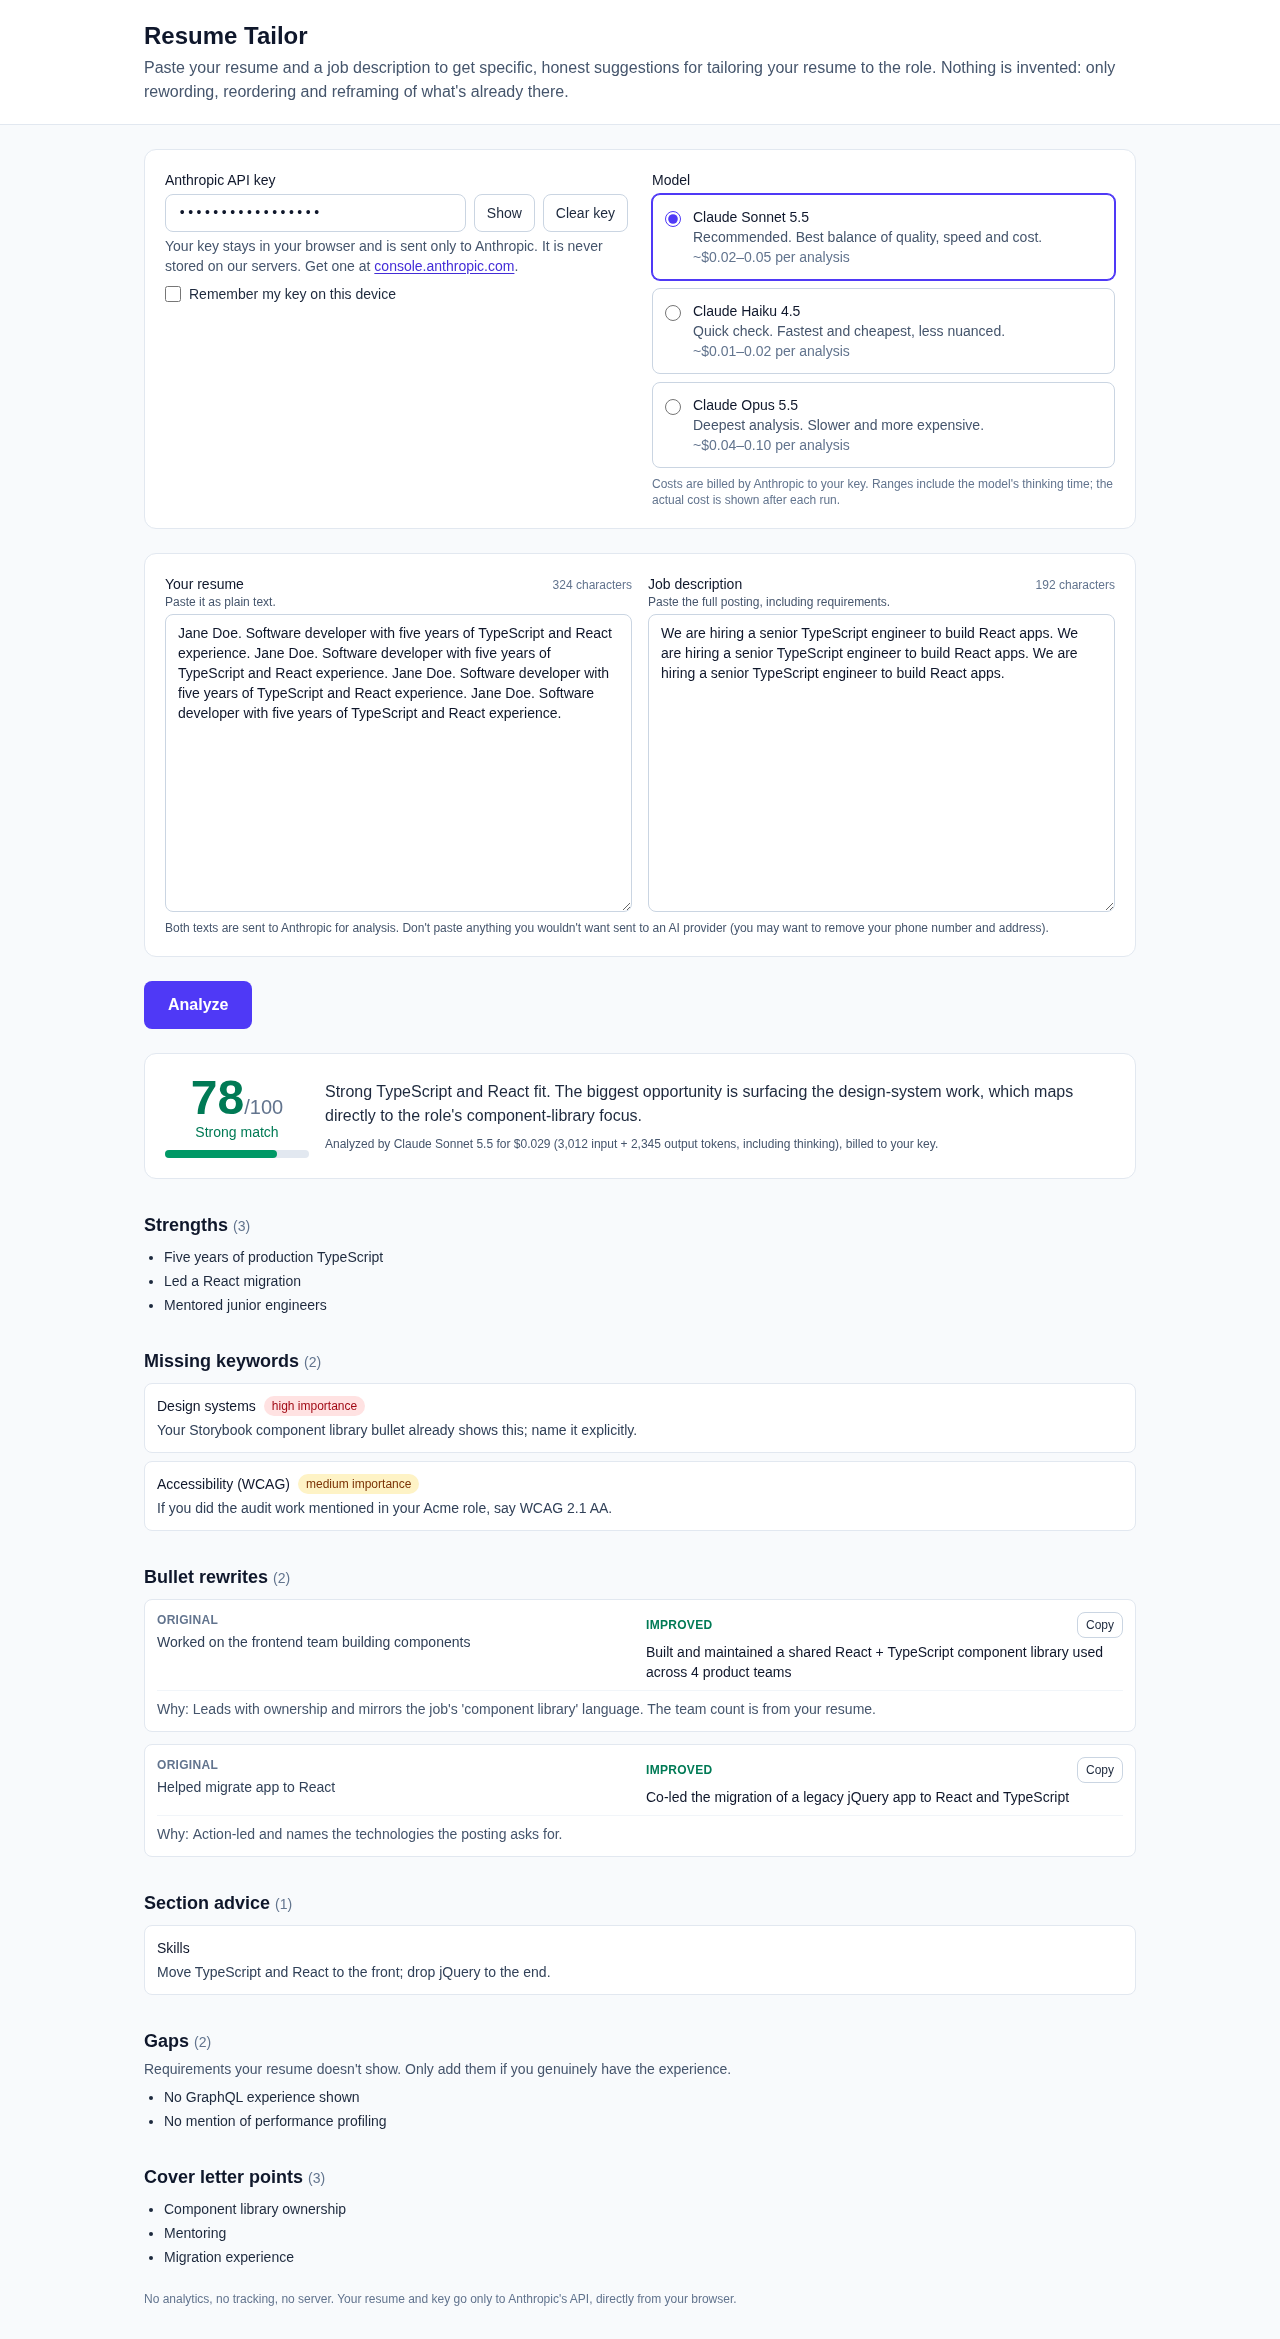
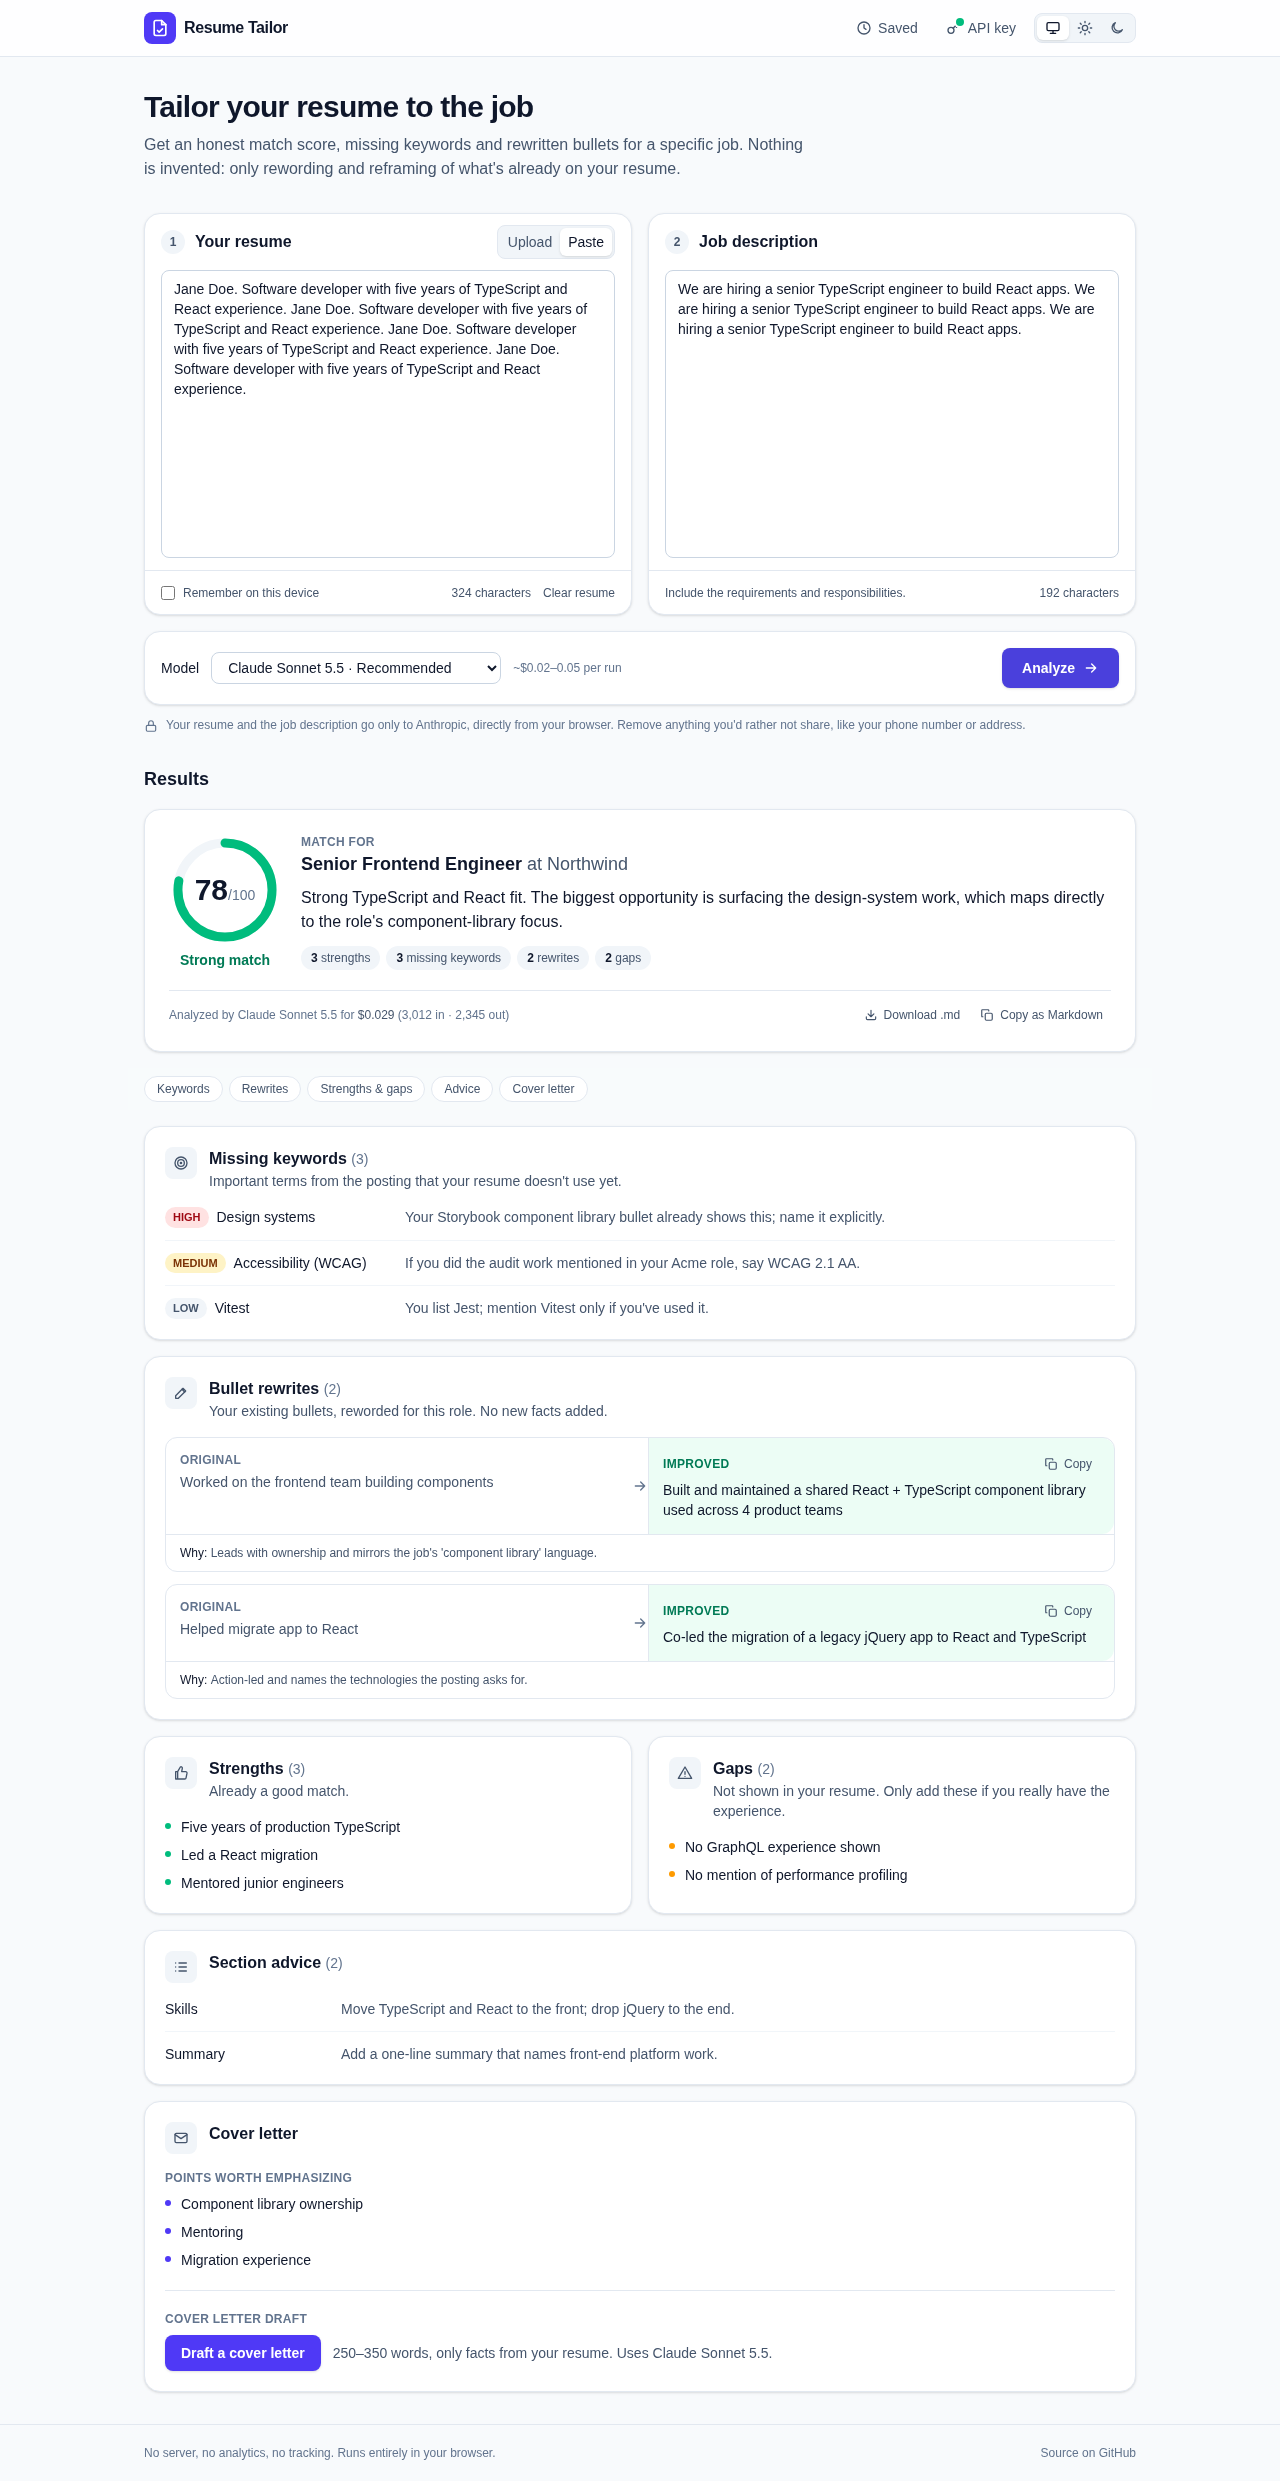
Document the UI redesign in CLAUDE.md and README
Records the layout, primitives, styling and microcopy conventions and
the new section order, and replaces the README screenshot.

diff --git a/CLAUDE.md b/CLAUDE.md
@@ -126,7 +126,7 @@ type Analysis = {
 };
 ```
 
-Rendering: show the job title/company and match score prominently, then the sections in the order above. Show `original` and `improved` bullets side by side, with a copy button on `improved`.
+Rendering: show the job title/company and match score prominently (score ring + summary + counts), then the sections **most actionable first**: missing keywords (sorted high → low importance), bullet rewrites, strengths and gaps side by side, section advice, then cover letter points with the cover letter drafter. (Changed from the schema order in the 2026-10-02 UI redesign; the Markdown export uses the same order.) Show `original` and `improved` bullets side by side, with a copy button on `improved`.
 
 ## 7. Prompt design
 
@@ -201,13 +201,21 @@ resume-tailor/
 │   │   ├── useResume.ts       # text/PDF draft, opt-in persistence
 │   │   ├── useHistory.ts      # opt-in saved analyses
 │   │   └── useTheme.ts        # system/light/dark
-│   ├── components/            # presentational components (no API calls)
+│   ├── components/            # presentational components (no API calls); ui/ = primitives
 │   ├── utils/                 # parseJson, storage, readResumeFile, history, toMarkdown, validateInputs
 │   └── test/                  # setup, fixtures, fakeProvider
 └── (tests are colocated as *.test.ts(x))
 ```
 
 Adjust if there's a good reason, but keep the separation: **UI components don't call the API directly; they go through the hook and service layer.**
+
+### UI conventions (2026-10-02 redesign)
+
+- **Layout: single-page workspace.** Sticky top bar (logo, "Saved" opens the history drawer, "API key" opens the settings dialog with a green/amber status dot, icon theme switch). First run shows a "Connect your Anthropic API key" card instead of a key field in the main flow. Below that: two numbered input cards (1 · Your resume, 2 · Job description) of equal height, an action bar (model `<select>`, cost hint, Analyze, and only the *first* blocker as a one-line description), one privacy line, then results.
+- **Primitives** live in `src/components/ui/`: `Modal` (native `<dialog>`, centred or right-side drawer; Esc/focus/backdrop are native), `Segmented` (radio group styled as a segmented control), `StepCard`, and `icons.tsx` (hand-written inline SVGs, so no icon package).
+- **Styling:** semantic tokens only (see Dark mode above), plus component classes in `index.css`: `.card`, `.btn-primary`, `.btn-secondary`, `.btn-ghost`, `.btn-icon`, `.input`, `.link`, `.eyebrow`. Selected segments use `bg-raised`, which is lighter than `bg-sunken` in both themes.
+- **Microcopy:** keep it short. One idea per helper line, and no paragraphs of grey small print; put detail in dialogs or `<details>`.
+- **Tests:** jsdom lacks `<dialog>` methods, so `src/test/setup.ts` emulates `showModal`/`close`. Password inputs have no `textbox` role, so find the key field with `getByLabelText`.
 
 ## 10. Code quality rules
 

diff --git a/README.md b/README.md
@@ -4,7 +4,7 @@
 
 **Live demo:** https://resume-tailor-jet.vercel.app
 
-![Resume Tailor showing a 78/100 match score, missing keywords, and side-by-side bullet rewrites](docs/screenshot.png)
+![Resume Tailor: resume and job description cards, then a 78/100 match score with missing keywords, bullet rewrites, strengths and gaps](docs/screenshot.png)
 
 <sub>Screenshot shows sample output.</sub>
 
